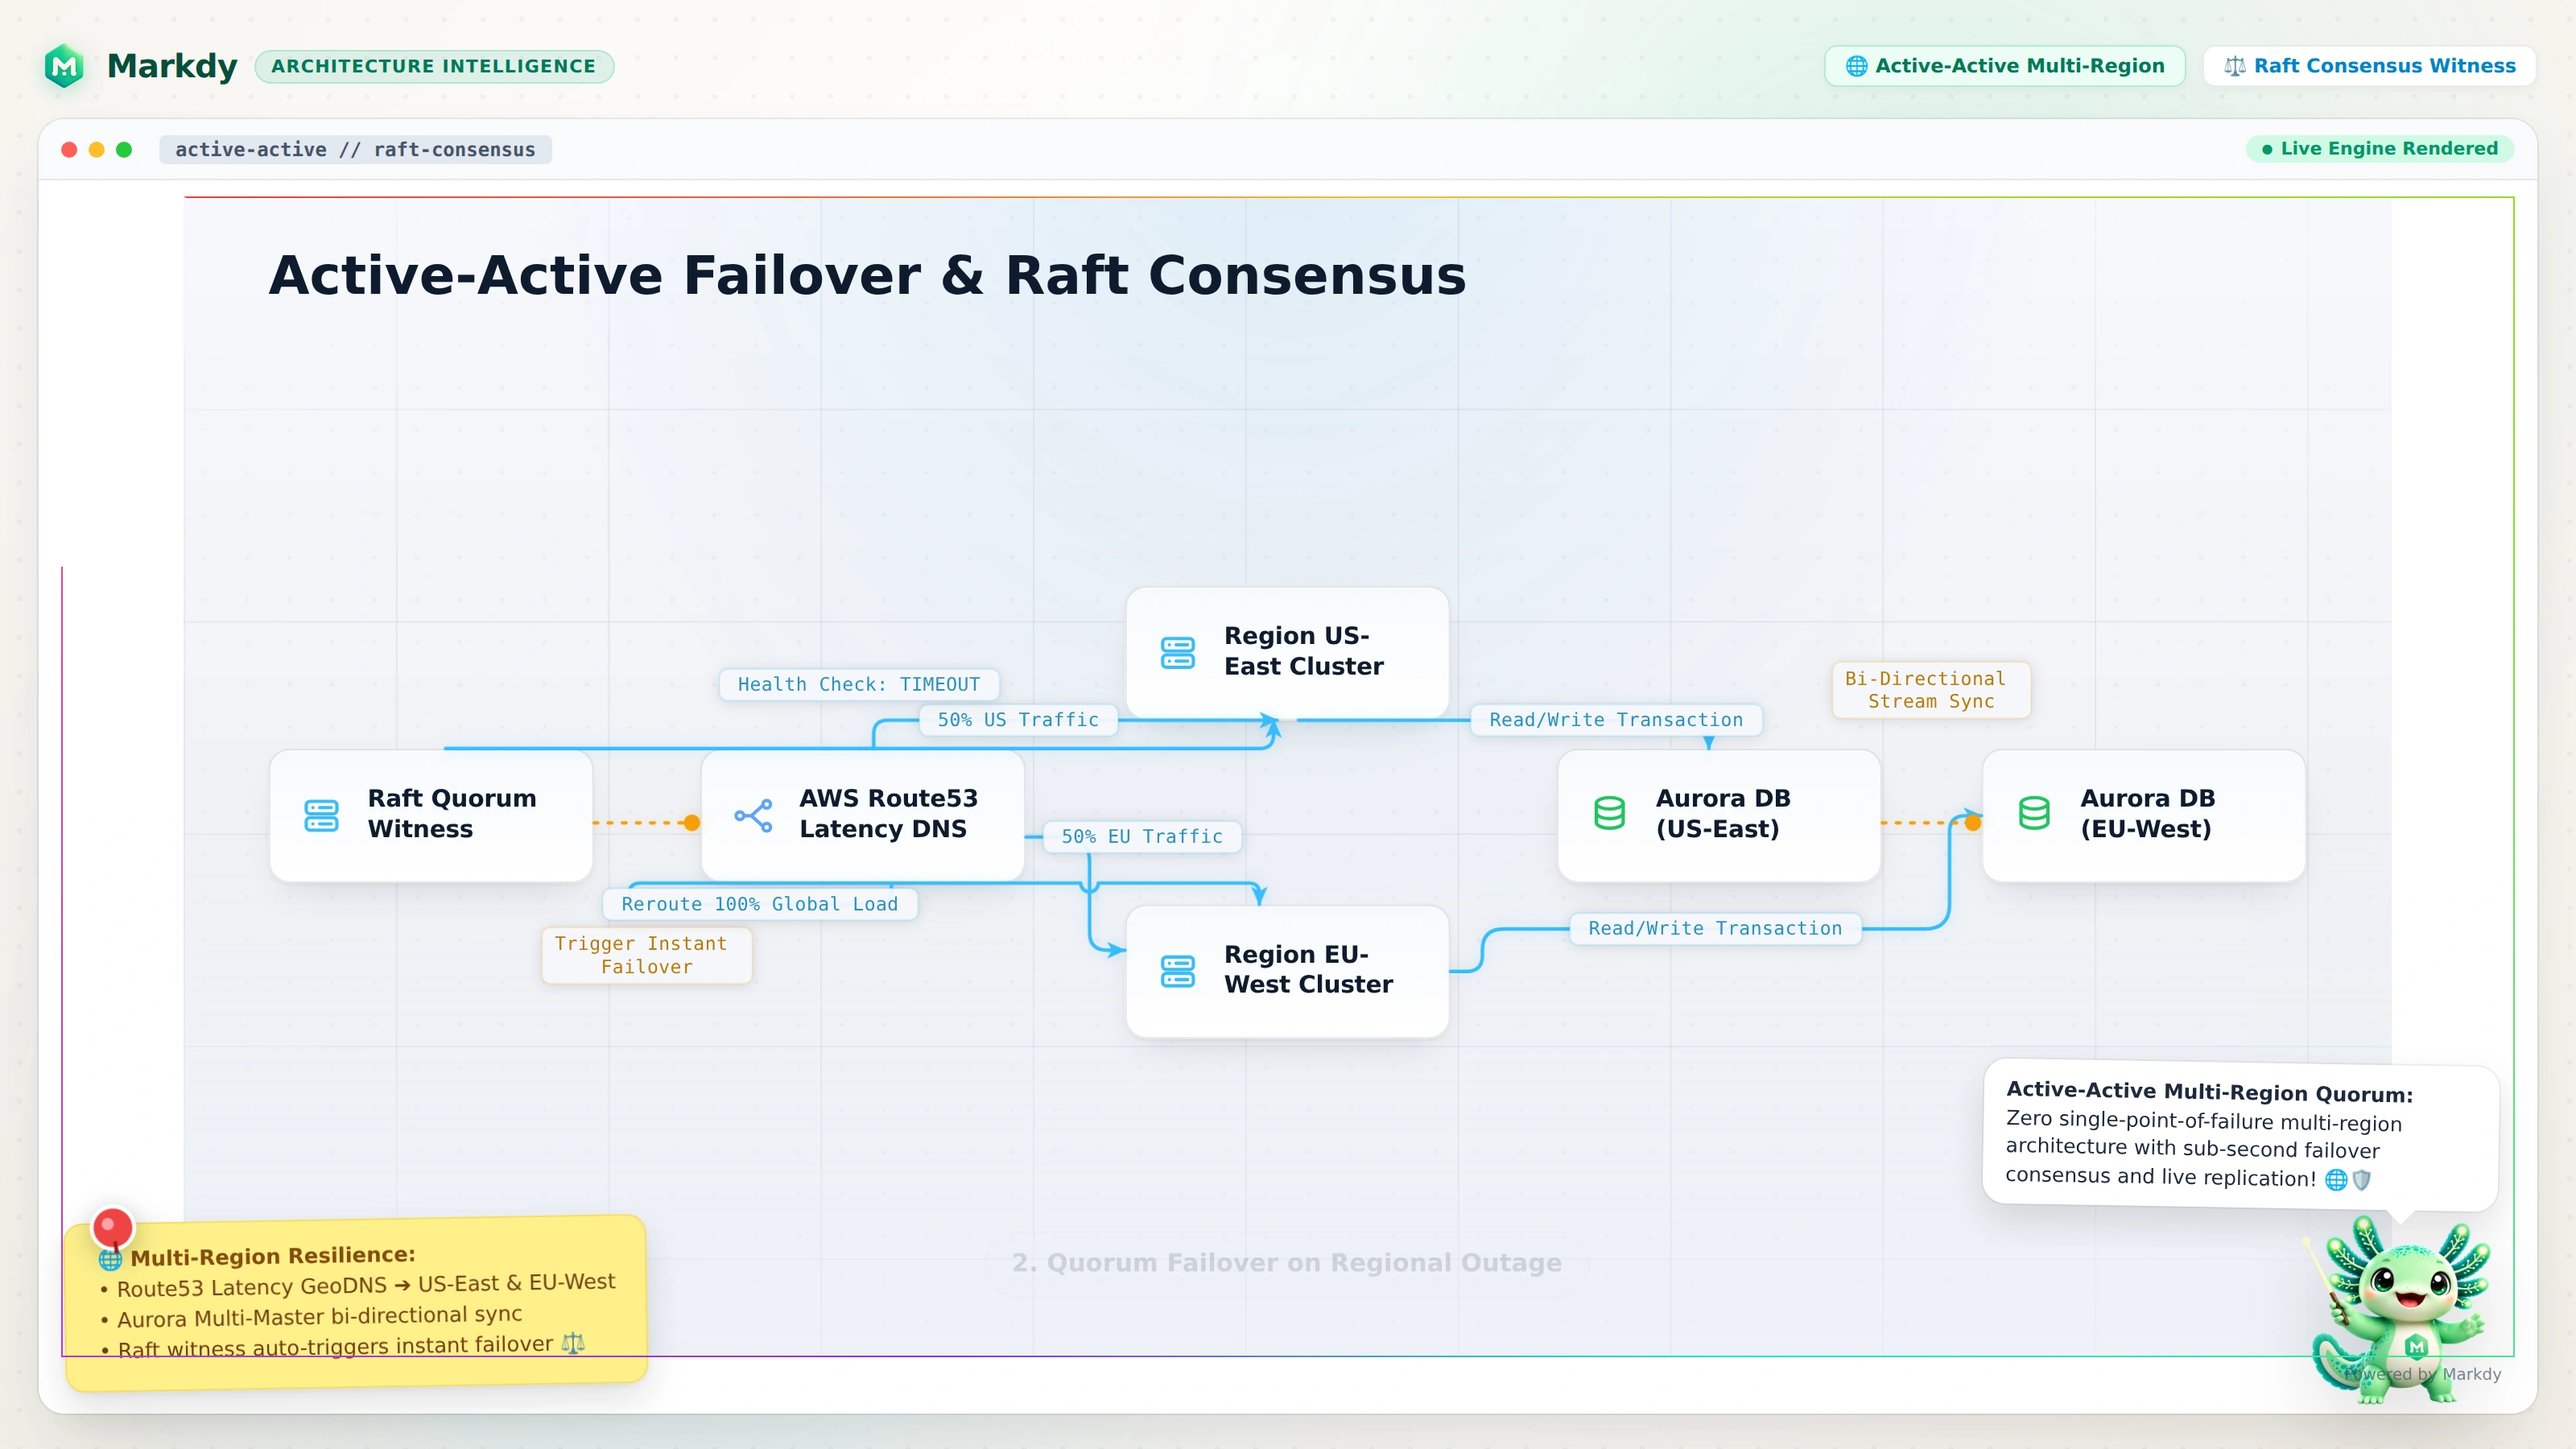
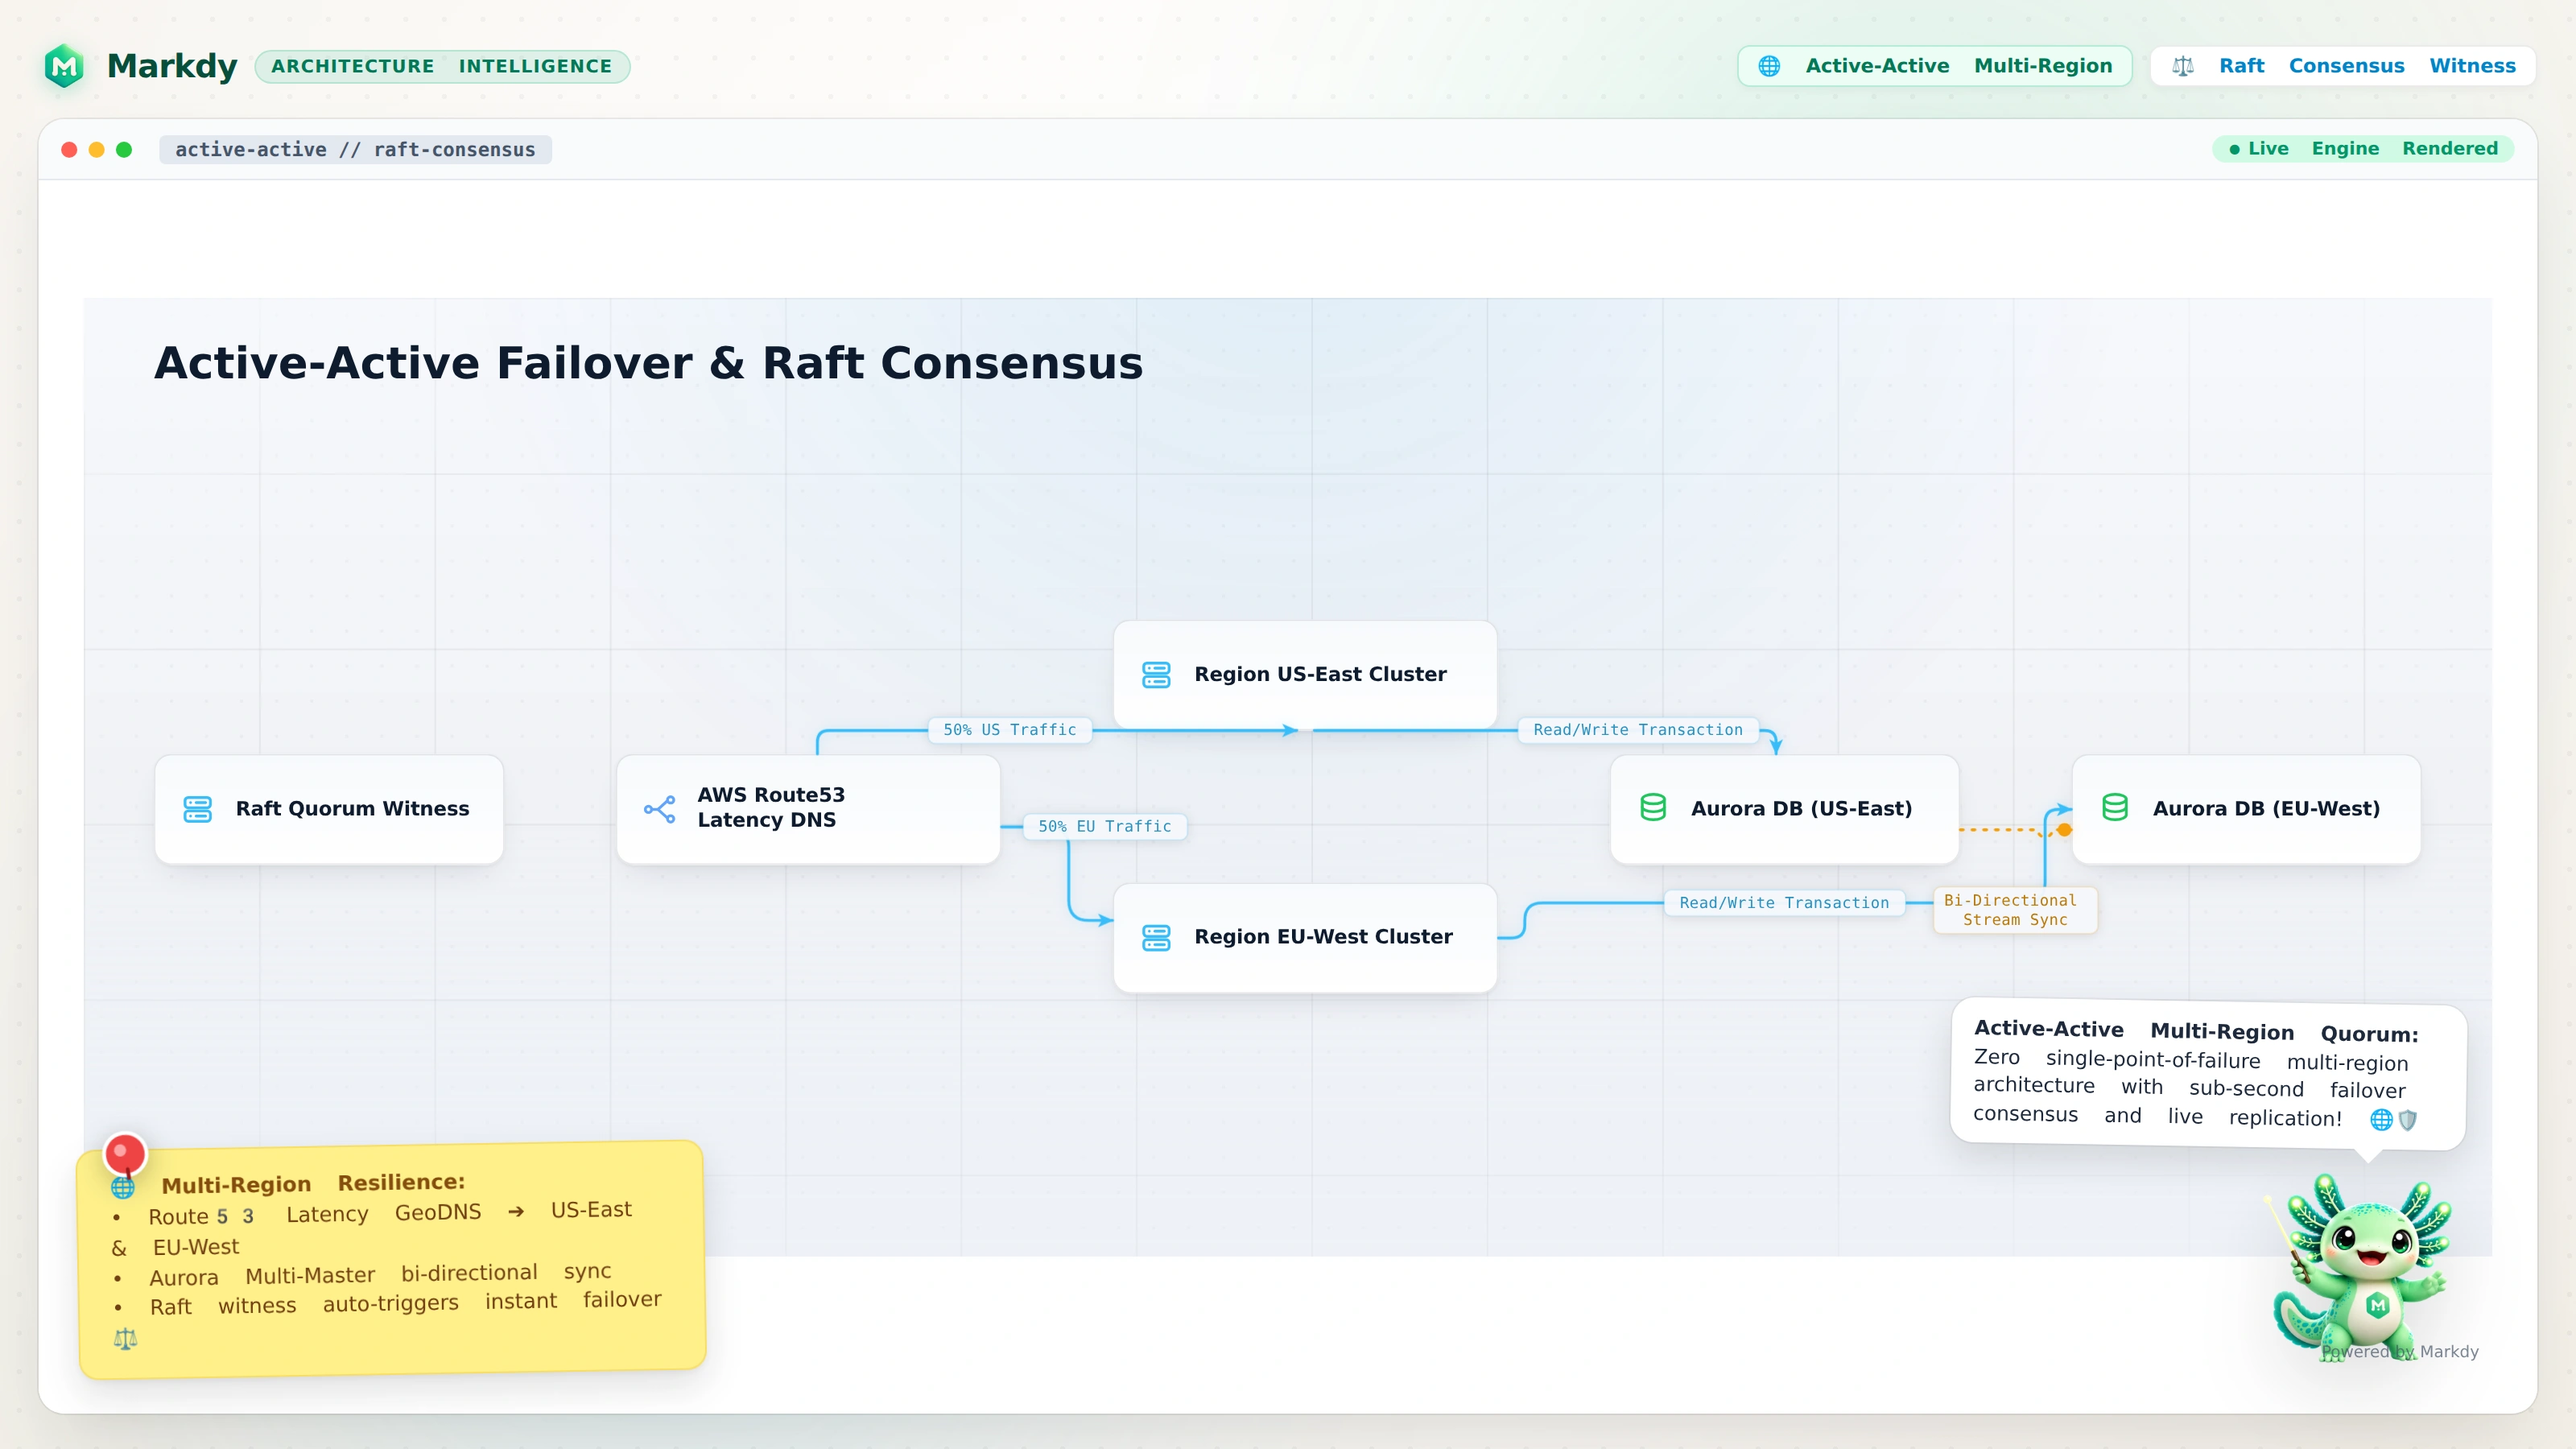
fix(renderer,core,evidence): resolve visual overlap, edge reveals, node truncation & pristine card rendering
- Add missing animateEdgeReveal call to flow cues in renderer-dom
- Offset bidirectional horizontal return flows vertically to prevent label collisions
- Expand perpendicular candidate offsets in placeFlowLabel to eliminate node overlaps
- Improve computeNodeDimensions to prevent premature text truncation (...)
- Fix camera zoom bounds in blast radius example and add fault/impact badges
- Fix sticky note & mascot positioning, eliminate boundary progress artifact in share cards
- Regenerate all 6 authentic High-DPI visual evidence cards (330/330 tests green)

diff --git a/packages/renderer-dom/src/geometry/path.ts b/packages/renderer-dom/src/geometry/path.ts
@@ -383,21 +383,20 @@ export function placeFlowLabel(
     }
 
     // Perpendicular offsets above / below / left / right
-    const perpStep = halfH + 8;
-    for (let k = 1; k <= 3; k++) {
-      const stepPerp = k * perpStep;
+    const perpSteps = [halfH + 8, halfH + 22, halfH + 38, halfH + 56];
+    perpSteps.forEach((stepPerp, k) => {
       if (horizontal) {
         candidates.push(
-          { x: mid.x, y: mid.y - stepPerp, penalty: 20 + k * 6 },
-          { x: mid.x, y: mid.y + stepPerp, penalty: 24 + k * 6 },
+          { x: mid.x, y: mid.y - stepPerp, penalty: 20 + k * 8 },
+          { x: mid.x, y: mid.y + stepPerp, penalty: 24 + k * 8 },
         );
       } else {
         candidates.push(
-          { x: mid.x - stepPerp, y: mid.y, penalty: 20 + k * 6 },
-          { x: mid.x + stepPerp, y: mid.y, penalty: 24 + k * 6 },
+          { x: mid.x - stepPerp, y: mid.y, penalty: 20 + k * 8 },
+          { x: mid.x + stepPerp, y: mid.y, penalty: 24 + k * 8 },
         );
       }
-    }
+    });
 
     for (const cand of candidates) {
       const cx = clamp(cand.x, pad + halfW, bounds.width - pad - halfW);
@@ -643,8 +642,9 @@ export function routeOrthogonal(
       sY = clamp(sourceCenter.y + dirSign * 12, sourceRect.y1 + 10, sourceRect.y2 - 10);
       tY = clamp(targetCenter.y - dirSign * 12, targetRect.y1 + 10, targetRect.y2 - 10);
     } else {
-      sY = clamp(sourceCenter.y + (lane > 0 ? (lane % 2 === 1 ? 4 : -4) : 0), sourceRect.y1 + 10, sourceRect.y2 - 10);
-      tY = clamp(targetCenter.y + (lane > 0 ? (lane % 2 === 1 ? 4 : -4) : 0), targetRect.y1 + 10, targetRect.y2 - 10);
+      const fwdShift = lane > 0 ? (lane % 2 === 1 ? 14 : -14) : 0;
+      sY = clamp(sourceCenter.y + fwdShift, sourceRect.y1 + 10, sourceRect.y2 - 10);
+      tY = clamp(targetCenter.y + fwdShift, targetRect.y1 + 10, targetRect.y2 - 10);
     }
 
     const sPort: Point = { x: sourceRect.x2, y: sY };
@@ -715,6 +715,10 @@ export function routeOrthogonal(
       const dirSign = Math.sign(dy);
       sY = clamp(sourceCenter.y + dirSign * 12, sourceRect.y1 + 10, sourceRect.y2 - 10);
       tY = clamp(targetCenter.y - dirSign * 12, targetRect.y1 + 10, targetRect.y2 - 10);
+    } else {
+      const retShift = lane > 0 ? (lane % 2 === 1 ? -16 : 16) : 14;
+      sY = clamp(sourceCenter.y + retShift, sourceRect.y1 + 10, sourceRect.y2 - 10);
+      tY = clamp(targetCenter.y + retShift, targetRect.y1 + 10, targetRect.y2 - 10);
     }
     const sPortL: Point = { x: sourceRect.x1, y: sY };
     const tPortR: Point = { x: targetRect.x2, y: tY };

diff --git a/packages/core/src/compiler.ts b/packages/core/src/compiler.ts
@@ -49,11 +49,14 @@ export function computeNodeDimensions(
   const valueW = valLen > 0 ? Math.max(50, valLen * 9.5 + 16) : 0;
 
   // Content width needed for label & tech badge
-  const neededLabelChars = labelLen > 18 ? Math.ceil(labelLen / 2) : labelLen;
+  const words = (decl.label || "").trim().split(/\s+/).filter(Boolean);
+  const longestWord = Math.max(...words.map((w) => w.length), 0);
+  const avgLineChars = words.length > 1 ? Math.ceil(labelLen / Math.min(words.length, 2)) : labelLen;
+  const neededLabelChars = Math.max(longestWord + 2, avgLineChars, Math.min(labelLen, 22));
   const maxChars = Math.max(neededLabelChars, techLen);
-  const neededTextW = Math.max(88, maxChars * 7.8);
+  const neededTextW = Math.max(96, maxChars * 8.4);
 
-  const calculatedW = 56 + neededTextW + (valueW > 0 ? valueW + 14 : 0) + 16;
+  const calculatedW = 56 + neededTextW + (valueW > 0 ? valueW + 14 : 0) + 18;
   const minW = Math.max(baseW, Math.min(360, calculatedW));
 
   let width = Math.ceil(minW / 8) * 8;

diff --git a/packages/renderer-dom/src/edges.ts b/packages/renderer-dom/src/edges.ts
@@ -877,6 +877,7 @@ export function buildCueAnimations(
         if (runtime.labelRect) placedLabels.push(runtime.labelRect);
         if (edgeId) edgeRuntimes.set(edgeId, runtime);
       }
+      anims.push(...animateEdgeReveal(runtime, startMs, durMs));
       // Auto-reveal nodes participating in this flow if not explicitly shown yet
       for (const id of [seg.from, seg.to]) {
         if (!shownNodeSet.has(id)) {
